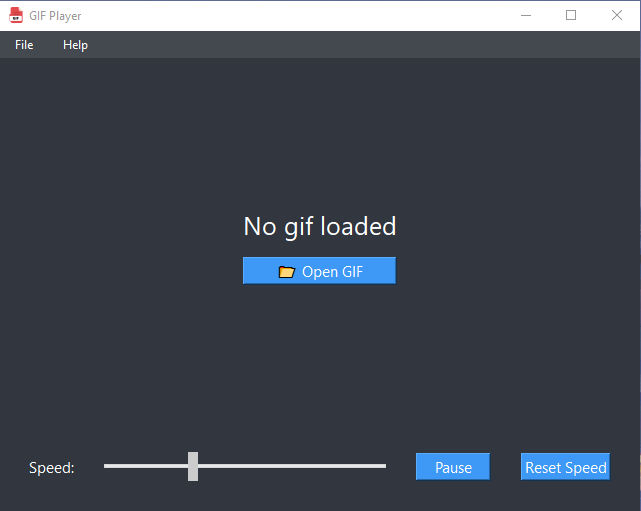
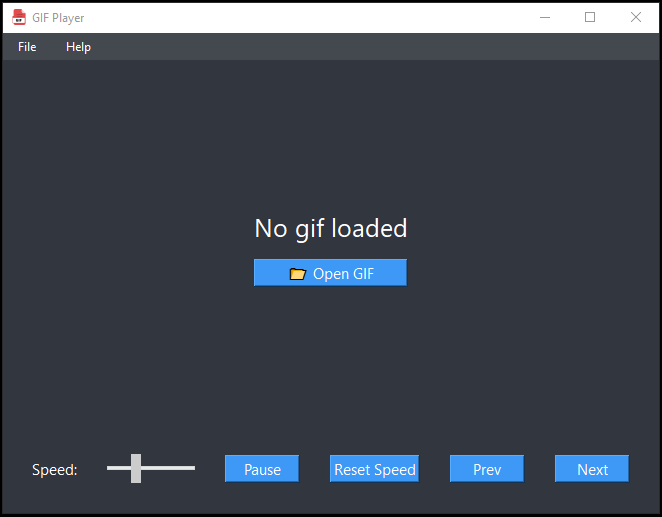
adding previous/next gif functionality

diff --git a/main.py b/main.py
@@ -19,6 +19,9 @@ class MainWindow(QMainWindow):
         self.setWindowTitle("GIF Player")
         self.setStyleSheet("background-color: #31363F;")
         self.gif_loaded = False
+        self.current_folder = ""
+        self.current_image_path = ""
+        self.gif_paths_list = ""
         # -------------------------|Icon path handling for packaging|------------------------- #
         if hasattr(sys, "_MEIPASS"):
             base_path = sys._MEIPASS
@@ -35,6 +38,8 @@ class MainWindow(QMainWindow):
         self.speed_slider = widgets["speed_slider"]
         self.button_pause = widgets["button_pause"]
         self.button_reset = widgets["button_reset"]
+        self.button_next = widgets["button_next"]
+        self.button_prev = widgets["button_prev"]
         self.gif_layout = widgets["gif_layout"]
         self.main_display = widgets["main_display"]
         menu_bar = setup_menu_bar(self, self.load_gif)
@@ -44,9 +49,14 @@ class MainWindow(QMainWindow):
         self.speed_slider.valueChanged.connect(self.speed_control)
         self.button_pause.clicked.connect(self.pause_clicked)
         self.button_reset.clicked.connect(self.reset_speed)
+        self.button_next.clicked.connect(self.next_clicked)
+        self.button_prev.clicked.connect(self.prev_clicked)
 
         # -------------------------|logic for playing gif or otherwise showing open option|------------------------- #
         if image_path.lower().endswith(".gif") and os.path.exists(image_path):
+            self.current_folder = os.path.dirname(image_path)
+            self.current_image_path = image_path
+            self.gen_gif_file_list()
             self.gif_image = QMovie(image_path)
             self.gif_image.jumpToFrame(0)
             self.gif_dimensions = self.gif_image.frameRect().size()
@@ -61,11 +71,22 @@ class MainWindow(QMainWindow):
             self.speed_slider.setDisabled(True)
             self.button_pause.setDisabled(True)
             self.button_reset.setDisabled(True)
+            self.button_next.setDisabled(True)
+            self.button_prev.setDisabled(True)
 
             self.main_display.setText("No gif loaded")
 
             self.load_button = QPushButton("📂 Open GIF")
-            self.load_button.setStyleSheet("color: white; background-color: #3d99f5; font-size: 15px;")
+            self.load_button.setStyleSheet("""
+                                            QPushButton {
+                                                color: white;
+                                                background-color: #3d99f5;
+                                                font-size: 15px;
+                                            }
+                                            QPushButton:hover {
+                                                background-color: #2b7cd3;
+                                            }
+                                        """)
             self.load_button.clicked.connect(self.load_gif)
 
             self.gif_layout.addWidget(self.main_display)
@@ -96,6 +117,30 @@ class MainWindow(QMainWindow):
         else:
             self.gif_image.setPaused(False)
             self.button_pause.setText("Pause")
+
+    def prev_clicked(self):
+        self.current_image_path = os.path.normpath(self.current_image_path)
+        if len(self.gif_paths_list) > 1:
+            try:
+                index = self.gif_paths_list.index(self.current_image_path)
+                prev_index = (index - 1) % len(self.gif_paths_list)
+                self.apply_gif(self.gif_paths_list[prev_index])
+            except ValueError:
+                pass
+
+    def next_clicked(self):
+        self.current_image_path = os.path.normpath(self.current_image_path)
+        if len(self.gif_paths_list) > 1:
+            try:
+                index = self.gif_paths_list.index(self.current_image_path)
+                next_index = (index + 1) % len(self.gif_paths_list)
+                self.apply_gif(self.gif_paths_list[next_index])
+            except ValueError:
+                pass
+
+    def gen_gif_file_list(self):
+        gif_files = [file for file in os.listdir(self.current_folder) if file.lower().endswith(".gif")]
+        self.gif_paths_list = [os.path.normpath(os.path.join(self.current_folder, file_name)) for file_name in gif_files]
 
     # -------------------------|method to maintain gif scale when window resizes|------------------------- #
     def update_gif_scale(self):
@@ -128,34 +173,53 @@ class MainWindow(QMainWindow):
         super().showEvent(event)
         self.update_gif_scale()
 
-    # -------------------------|method to load gif and make sure its valid|------------------------- #
+    # -------------------------|method to load gif and apply to main display|------------------------- #
     def load_gif(self):
         file_path, _ = QFileDialog.getOpenFileName(self, "Open GIF", "", "GIF Files (*.gif)")
+        file_path = os.path.normpath(file_path)
         if file_path:
-            if self.main_display.movie():
-                self.main_display.movie().stop()
-                self.main_display.clear()
-            self.gif_image = QMovie(file_path)
-            if self.gif_image.isValid():
-                self.gif_image.jumpToFrame(0)
-                self.gif_dimensions = self.gif_image.frameRect().size()
-                self.main_display.setMovie(self.gif_image)
-                self.gif_image.start()
-                self.main_display.adjustSize()
-                self.main_display.updateGeometry()
-                self.layout.activate()
-                self.update_gif_scale()
-                self.resize(self.size())
-                self.gif_loaded = True
-                if hasattr(self, "load_button"):
-                    self.load_button.hide()
-                self.speed_slider.setDisabled(False)
-                self.button_pause.setDisabled(False)
-                self.button_reset.setDisabled(False)
-                self.apply_gif_speed()
+            self.apply_gif(file_path)
+            self.current_folder = os.path.dirname(file_path)
+            self.current_image_path = file_path
+            self.setWindowTitle(f"GIF Player - {os.path.basename(self.current_image_path)}")
+            self.gen_gif_file_list()
 
-            else:
-                self.main_display.setText("Invalid GIF file")
+    # ----------------|method to apply a gif to the main display|--------------- #
+    def apply_gif(self, file_path):
+        self.current_image_path = os.path.normpath(file_path)
+        if not file_path.lower().endswith(".gif") or not os.path.exists(file_path):
+            self.main_display.setText("Invalid GIF file")
+            return
+
+        if self.main_display.movie():
+            self.main_display.movie().stop()
+            self.main_display.clear()
+
+        self.gif_image = QMovie(file_path)
+        if self.gif_image.isValid():
+            self.gif_image.jumpToFrame(0)
+            self.gif_dimensions = self.gif_image.frameRect().size()
+            self.main_display.setMovie(self.gif_image)
+            self.gif_image.start()
+            self.main_display.adjustSize()
+            self.main_display.updateGeometry()
+            self.layout.activate()
+            self.update_gif_scale()
+            self.resize(self.size())
+            self.gif_loaded = True
+            self.setWindowTitle(f"GIF Player - {os.path.basename(self.current_image_path)}")
+
+            if hasattr(self, "load_button"):
+                self.load_button.hide()
+
+            self.speed_slider.setDisabled(False)
+            self.button_pause.setDisabled(False)
+            self.button_reset.setDisabled(False)
+            self.button_next.setDisabled(False)
+            self.button_prev.setDisabled(False)
+            self.apply_gif_speed()
+        else:
+            self.main_display.setText("Invalid GIF file")
 
     # ----------------|method used to reset the speed when opening new files, used with small delay|--------------- #
     def apply_gif_speed(self):

diff --git a/layout/build_ui.py b/layout/build_ui.py
@@ -25,6 +25,12 @@ def build_ui():
     button_reset = QPushButton("Reset Speed")
     button_reset.setStyleSheet("color: white; background-color: #3d99f5; font-size: 15px;")
 
+    button_next = QPushButton("Next")
+    button_next.setStyleSheet("color: white; background-color: #3d99f5; font-size: 15px;")
+
+    button_prev = QPushButton("Prev")
+    button_prev.setStyleSheet("color: white; background-color: #3d99f5; font-size: 15px;")
+
     # -------------------------|creating inner layout and adding widgets|------------------------- #
     inner_layout = QHBoxLayout(inner_buttons)
     inner_layout.setSpacing(30)
@@ -32,6 +38,8 @@ def build_ui():
     inner_layout.addWidget(speed_slider)
     inner_layout.addWidget(button_pause)
     inner_layout.addWidget(button_reset)
+    inner_layout.addWidget(button_prev)
+    inner_layout.addWidget(button_next)
     inner_layout.setContentsMargins(20, 20, 20, 20)
     inner_layout.setSizeConstraint(QLayout.SetMinimumSize)
 
@@ -59,6 +67,8 @@ def build_ui():
         "speed_slider": speed_slider,
         "button_pause": button_pause,
         "button_reset": button_reset,
+        "button_next": button_next,
+        "button_prev": button_prev,
         "gif_layout": gif_layout,
         "main_display": main_display
     }
